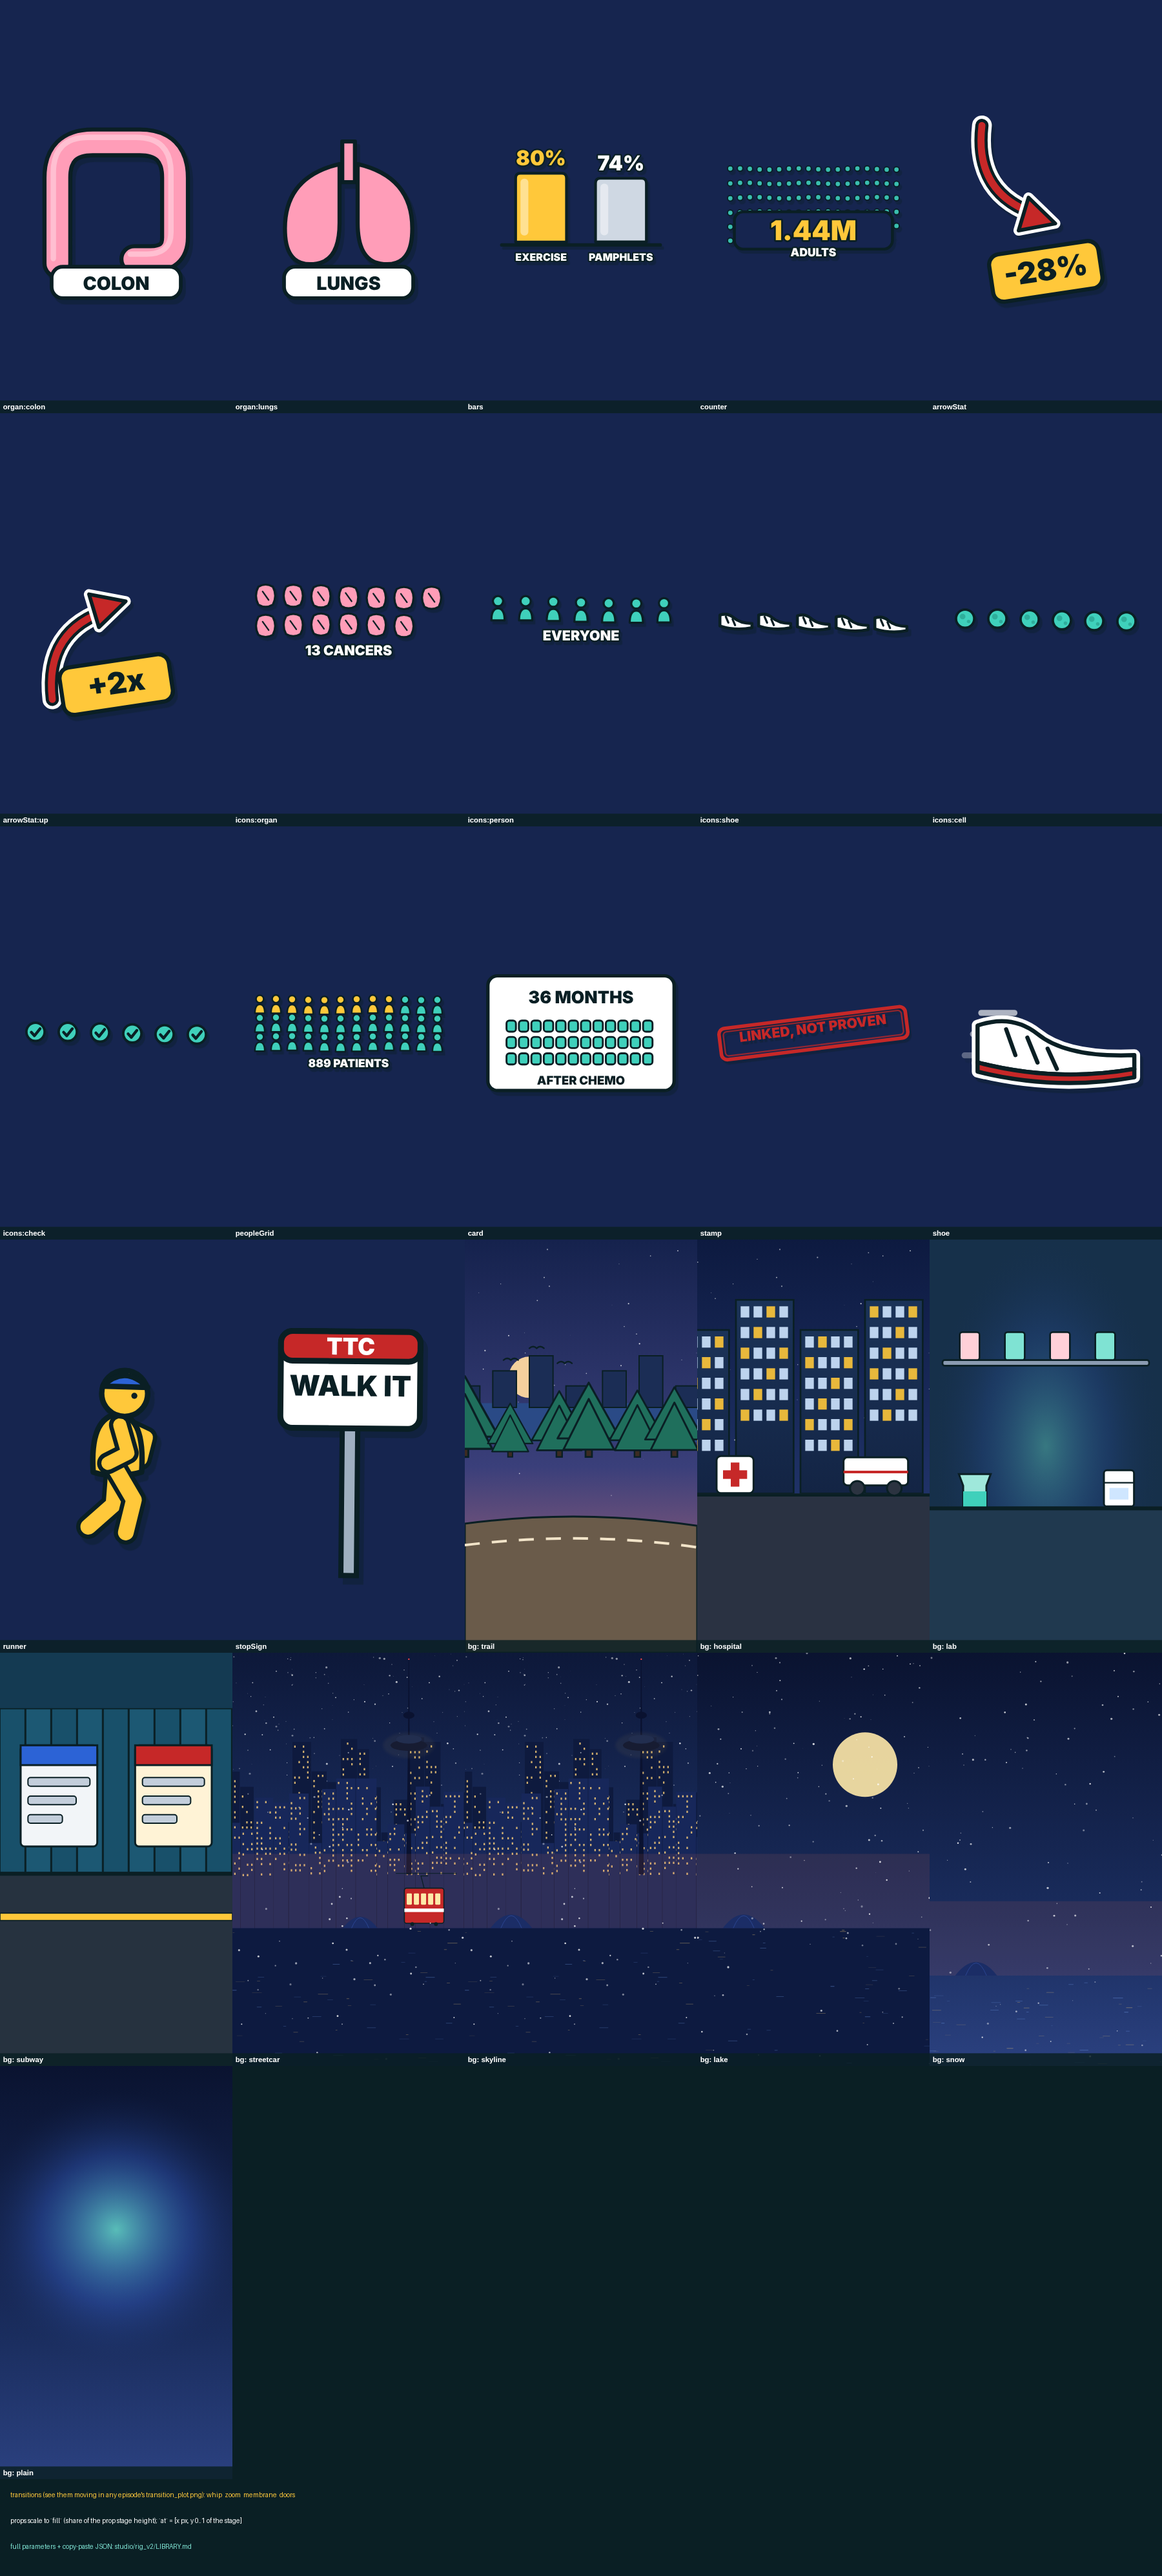
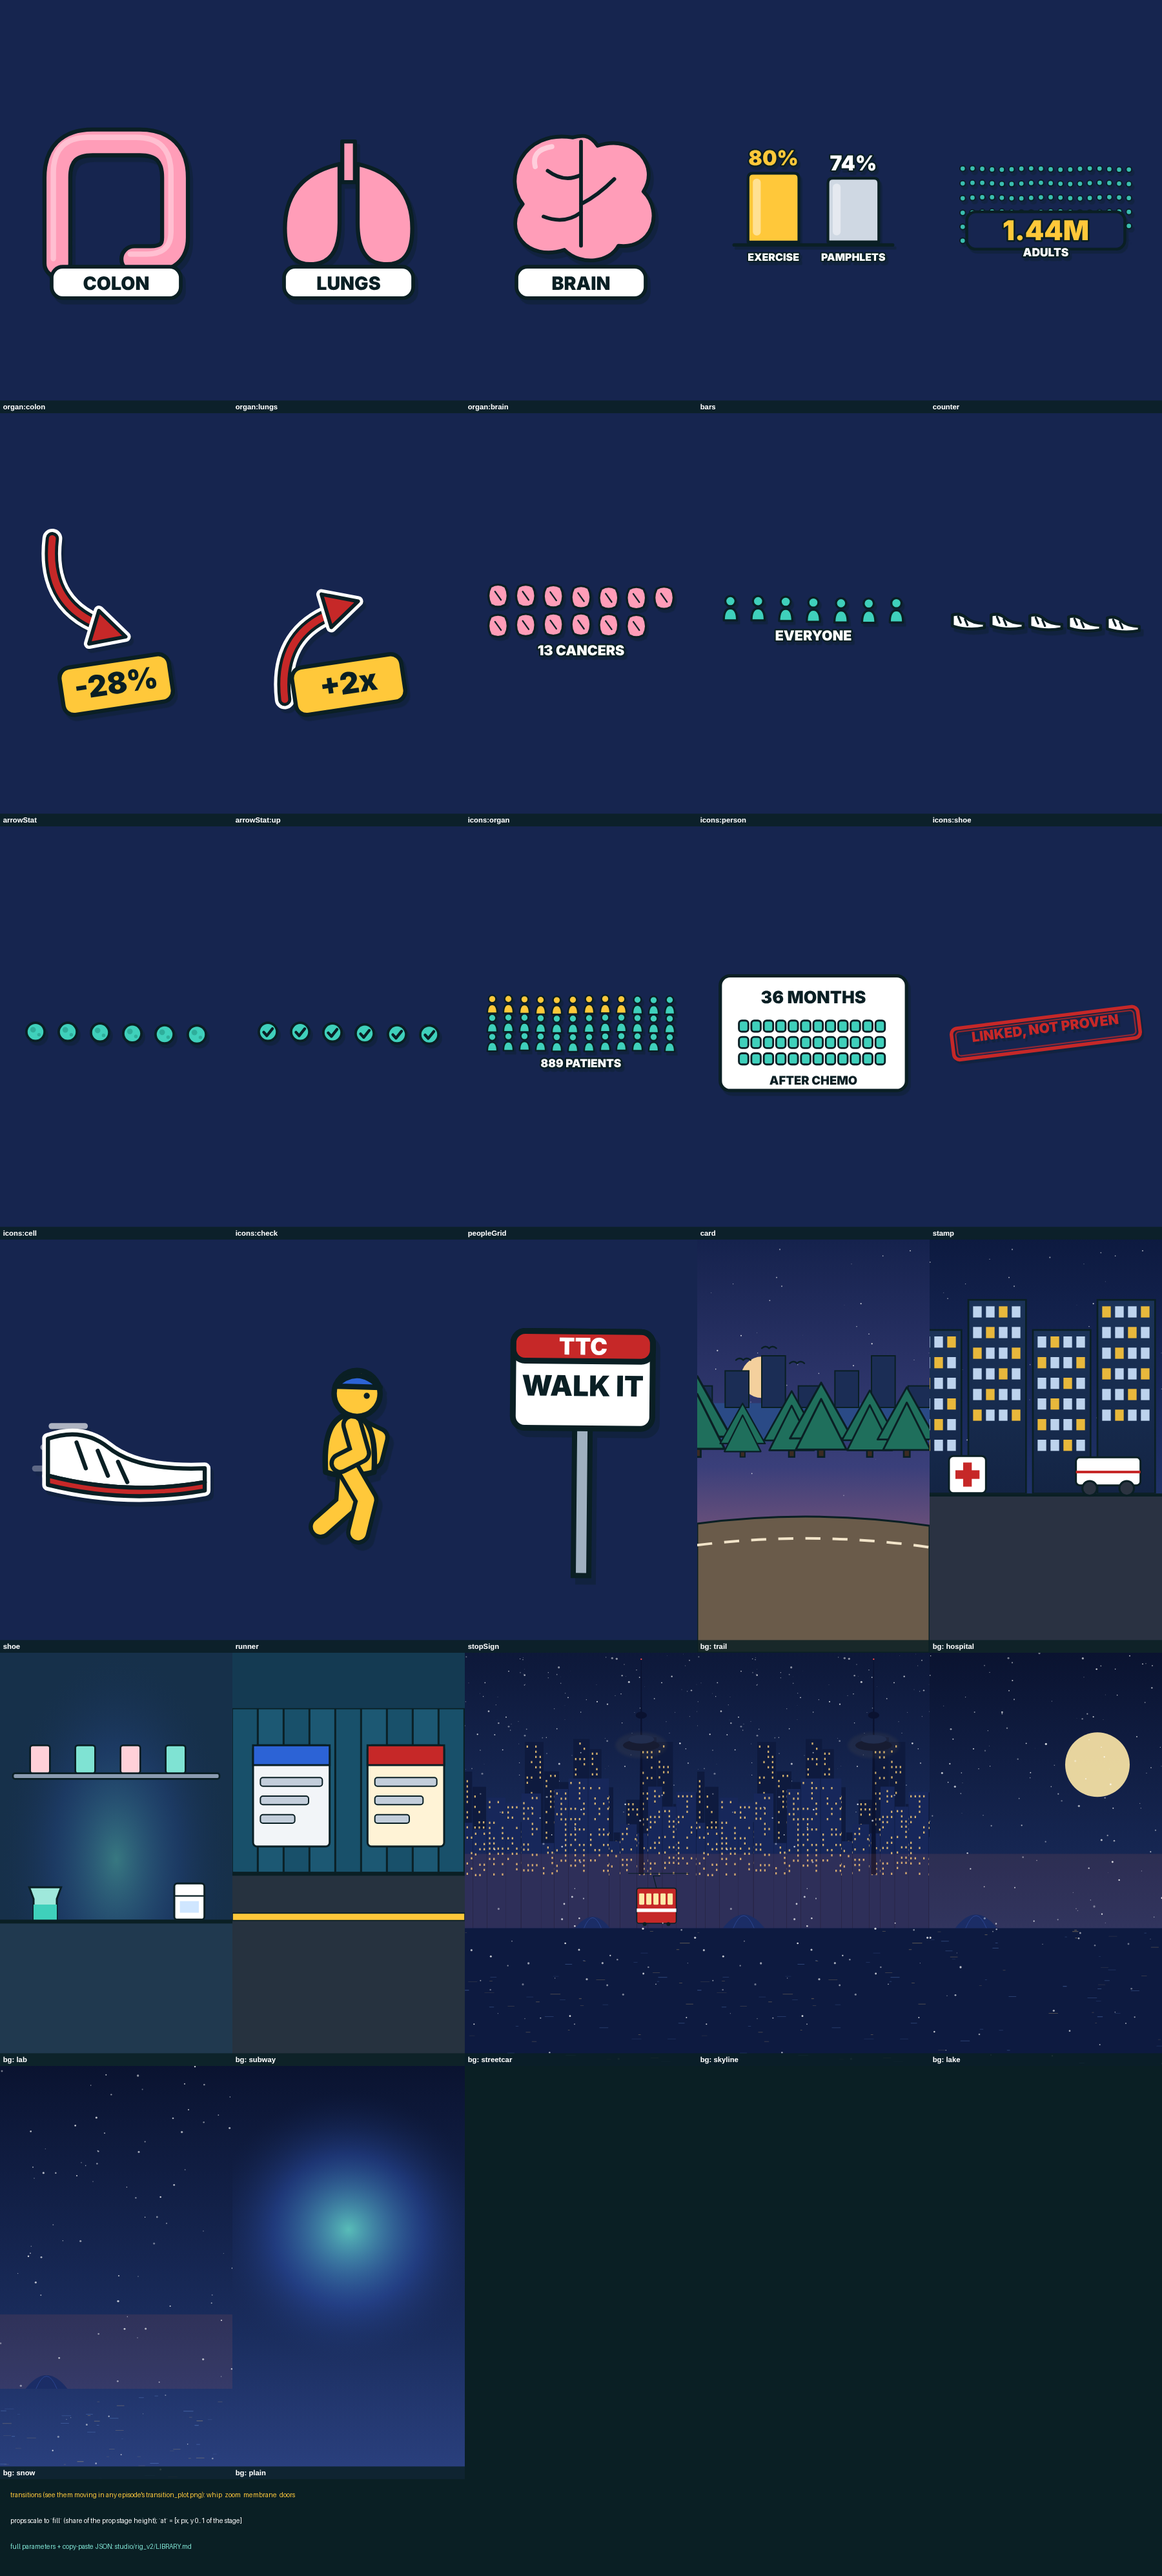
Ep 17: rebuilt for HARD_RULES 20/21 (anchored props, clean catchphrase + outro); new organ kind brain
- Every prop has shows + word anchor and leaves with its sentence; s2 and s6 carry no props.
- New library item: organ kind `brain` (props.js, LIBRARY.md, library_tags.json, library sheet, test_rig 20/20).
- Checks 0 FAIL / 0 WARN incl. no floaters and variety. Same voice take, 0 extra credits.
- Awaiting Utsha's gate-2 OK on the new cut; not scheduled. tiktok/queue.json untouched.

Claude-Session: https://claude.ai/code/session_01YLZ2csiusoZdDkGaKPDRgS

diff --git a/studio/rig_v2/props.js b/studio/rig_v2/props.js
@@ -123,6 +123,10 @@ const PROPS = {
         `<g transform="translate(0,52) scale(${pp.toFixed(3)})">` + sticker(O('M-74 -44 Q-104 6 -58 46 Q0 74 58 46 Q104 6 74 -44 Q0 -68 -74 -44Z', GOLD, 9)) +
         `<path d="M-44 -26 Q-60 4 -36 26" stroke="${WHITE}" stroke-width="10" fill="none" stroke-linecap="round" opacity=".6"/><path d="M0 -40 L0 50" stroke="${INK}" stroke-width="7" stroke-linecap="round" stroke-dasharray="4 14"/></g>`;
     }
+    else if (kind === 'brain') body = `<g transform="scale(.92)">` +   // same cut-out brain as the thumbnail hero (thumbs.js). Ep 17.
+      O('M-20 -140 C-140 -160 -190 -40 -140 20 C-190 80 -130 160 -40 130 C0 170 70 160 90 120 C170 130 200 40 150 -10 C190 -70 130 -150 40 -120 C20 -150 0 -145 -20 -140Z', PINK, 9) +
+      `<path d="M0 -130 V120 M-80 -60 Q-40 -30 0 -50 M80 -40 Q40 0 0 20 M-90 50 Q-40 70 0 40" stroke="${INK}" stroke-width="9" fill="none" stroke-linecap="round"/>` +
+      `<path d="M-110 -70 Q-120 -110 -70 -118" stroke="${WHITE}" stroke-width="12" fill="none" stroke-linecap="round" opacity=".5"/></g>`;
     else body = tube('M-130 150 L-130 -40 Q-130 -118 -52 -118 L52 -118 Q130 -118 130 -40 L130 92 Q130 140 76 140 L40 140', PINK);
     return {
       svg: `<g transform="translate(${W / 2},${H / 2 - (p.label ? 24 : 0)}) scale(${pulse.toFixed(3)})">${body}</g>` +

diff --git a/studio/rig_v2/test_rig.py b/studio/rig_v2/test_rig.py
@@ -57,4 +57,11 @@ check("prostate organ kind renders with its label chip", pj["org"])
 check("a prop with `out` is on screen before it and gone 0.25 s after (rule 21)", pj["a"] and not pj["g"])
 check("stamp `plate` draws a backing plate", pj["plate"]>=3)
 check("plain backdrop has no decorative rings (rule 21)", pj["plain"]==1 and not pj["rings"])
+
+# --- prop added Nov 13 (Ep 17): brain organ kind
+bj=json.loads(node("const {propHtml}=require('./props.js');const st={top:420,bottom:915};"
+ "const o=propHtml({t:'organ',kind:'brain',label:'BRAIN',at:[540,.5],fill:.9,in:0},1,'s0',0,1,st);"
+ "const c=propHtml({t:'organ',kind:'colon',at:[540,.5],fill:.9,in:0},1,'s0',0,1,st);"
+ "console.log(JSON.stringify({org:o.visible&&o.html.includes('BRAIN')&&o.html.includes('C-140 -160')&&!/finger/i.test(o.html),other:!c.html.includes('C-140 -160')}))"))
+check("brain organ kind renders with its label chip and does not leak into other kinds", bj["org"] and bj["other"])
 print(f"\n{sum(R)}/{len(R)} passed"); sys.exit(0 if all(R) else 1)

diff --git a/studio/rig_v2/library_render.py b/studio/rig_v2/library_render.py
@@ -15,6 +15,7 @@ OUT = os.path.join(HERE, "library.png")
 PROPS = [
     {"t": "organ", "kind": "colon", "label": "COLON"},
     {"t": "organ", "kind": "lungs", "label": "LUNGS"},
+    {"t": "organ", "kind": "brain", "label": "BRAIN"},
     {"t": "bars", "values": [80, 74], "labels": ["EXERCISE", "PAMPHLETS"]},
     {"t": "counter", "to": 1.44, "suffix": "M", "decimals": 2, "label": "ADULTS"},
     {"t": "arrowStat", "label": "-28%", "dir": "down"},

diff --git a/studio/episodes/ep17/plan.md b/studio/episodes/ep17/plan.md
@@ -1,5 +1,5 @@
 # Ep 17 plan: "Why Quitting Smoking Is So Hard (And What Helps)" (IDEA chat, Nov 11, 2026)
-Status: BUILT and approved by Utsha at gate 2 on Nov 12, but **NOT schedulable as-is**. HARD_RULES 20/21 landed later that day and apply from Ep 16, so this spec now fails validation with 15 errors (every prop lacks `shows`/`anchor`; s2 catchphrase and s6 outro must carry no props). This is manager task 6, "clean Ep 17 for rule 21", still open.
+Status: REBUILT for HARD_RULES 20/21 on Nov 13 (0 FAIL / 0 WARN), awaiting Utsha's new gate-2 OK. The Nov 12 approval covered the pre-rule-21 cut.
 Voice = 1 take, 550 ElevenLabs credits, already generated — the rule-21 rebuild costs 0 extra credits. Claims: `claims.md`. Spec: `episode.json`.
 
 ## Why
@@ -19,13 +19,16 @@ Voice = 1 take, 550 ElevenLabs credits, already generated — the rule-21 rebuil
 ## Scene table
 | # | Backdrop / transition | Props |
 |---|---|---|
-| 0 | hospital / zoom (instant) | organ lungs LUNGS, stamp QUIT?, icons cell (3x2) |
-| 1 | lab / whip | icons cell x8 RECEPTORS, stamp NICOTINE |
-| 2 | hospital / membrane | card RISP 2026 / 7,805 SMOKERS, icons check |
-| 3 | lab / whip | bars 50.1 vs 8.1, icons check x8 (top strip) |
-| 4 | plain / zoom | peopleGrid CHOSE IT, stamp NOT PROVEN, icons person |
-| 5 | streetcar / doors | stopSign TTC/ASK, icons check, icons cell |
-| 6 | hospital / whip | peopleGrid SEND IT, icons person |
+| 0 | hospital / zoom (instant) | organ lungs @"smoking"; organ brain (NEW) @"brain's" |
+| 1 | streetcar / whip | stamp NICOTINE @"Nicotine"; icons cell RECEPTORS @"receptors"; stopSign TTC/DELAY @"TTC" |
+| 2 | hospital / membrane | none (catchphrase, clean) |
+| 3 | lab / whip | card ITALY 2026 @"Italian"; peopleGrid HALF QUIT (5 of 10) @"half"; bars 50.1 vs 8.1 @"Counselling" |
+| 4 | plain / zoom | peopleGrid CHOSE IT @"picked"; stamp LINKED @"Linked"; stamp NOT PROVEN @"proven" |
+| 5 | snow / doors | icons person ASK THEM @"doctor"; icons check EVERY TRY @"try" |
+| 6 | hospital / whip | none (outro, clean; sources card only) |
+
+### Rule 20/21 rebuild (BUILD chat, Nov 13) — supersedes the Nov 12 notes below
+Every prop now has `shows` + a word `anchor` and leaves with its sentence; catchphrase and outro are prop-free. Reused: lungs, stamps, icons, peopleGrid, bars, card, stopSign (all with new params). New: organ kind `brain` (added to props.js, LIBRARY.md, library_tags.json, test_rig). Backdrop order hospital/streetcar/hospital/lab/plain/snow/hospital. 0 extra credits (same voice take).
 
 ### BUILD chat prop changes (Nov 12, Ep 17 draft 1 -> final)
 Props are all existing LIBRARY.md ids; only parameters changed, so nothing new to add to the library.

diff --git a/studio/rig_v2/LIBRARY.md b/studio/rig_v2/LIBRARY.md
@@ -52,7 +52,7 @@ A scene's first prop should be readable within ~0.2 s of the cut — a grid with
 
 | id | what it is | parameters |
 |---|---|---|
-| `organ` | drawn organ with a label chip, pulses | `kind`: `colon` \| `lungs` \| `prostate` (Ep 16: bladder + gold gland diagram); `label` |
+| `organ` | drawn organ with a label chip, pulses | `kind`: `colon` \| `lungs` \| `prostate` (Ep 16: bladder + gold gland diagram) \| `brain` (Ep 17: the thumbnail-hero brain as a scene prop); `label` |
 | `bars` | bars that grow with counting values | `values`: `[80,74]`; `labels`: `["EXERCISE","PAMPHLETS"]`; `unit` (default `%`). Tallest bar goes gold. |
 | `counter` | number rolling up over a crowd of dots that fills in | `to`; `suffix` (e.g. `M`); `decimals`; `label`; `dur` (default 1.3) |
 | `arrowStat` | big arrow that draws on, number in a gold stamp at the head | `dir`: `down` \| `up`; `label` |
@@ -133,4 +133,5 @@ Every cut is 0.35–0.5 s, eases in and out, and keeps moving (HARD_RULES 8, 18)
 - Pick scenes: `python3 studio/suggest_scenes.py --for=epNN <topic tags>` prints 3 backdrop + prop sets per role (hook, explain, stat, limits, payoff, clean), topic fit first, then least recently used, none a combo from the 3 episodes before epNN.
 - make_episode fails the episode before any credits are spent if: more than half the scenes repeat a backdrop+prop combo from the last 3 episodes, the backdrop order equals the previous episode's, there is no new or least-recently-used item, or a prop is reused with identical params.
 - Vary reused items: `at`, `fill`, counts (`n`, `ticks`, `cols`), `color`/`plate`, `rot`, labels, `dur`/`spread`.
+- Ep 17 added: organ kind `brain`.
 - Ep 16 added: organ kind `prostate`, stamp `plate`, scene `dim`, prop `hold`/`lead`. Removed: decorative rings on `plain`, snow particles on non-snow backdrops (rule 21).
